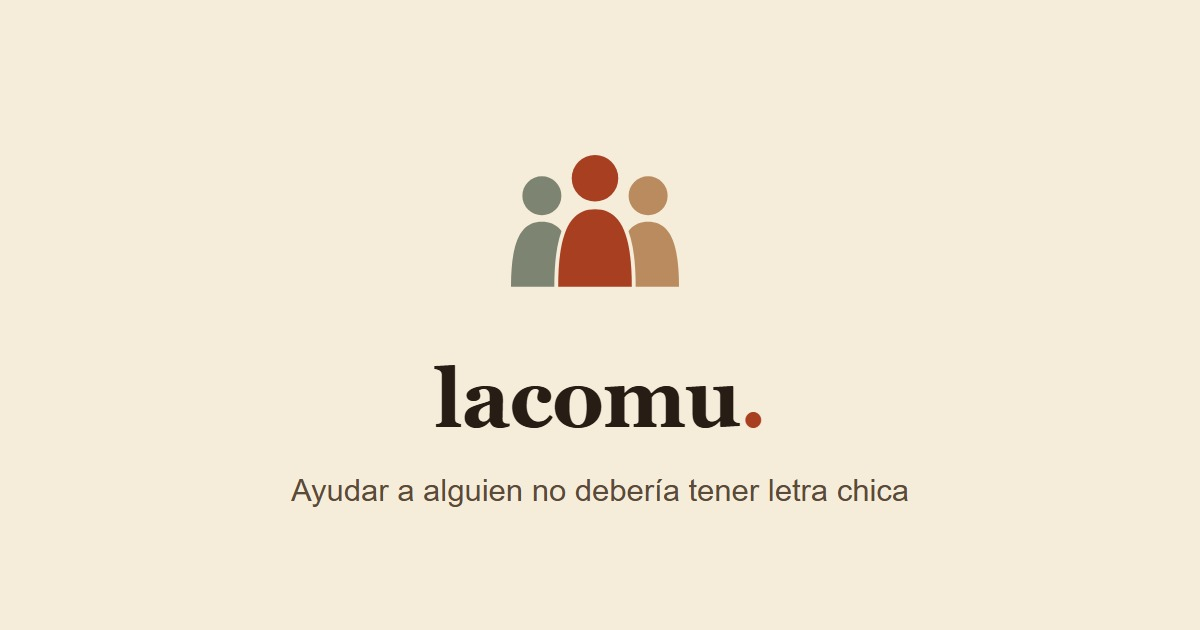
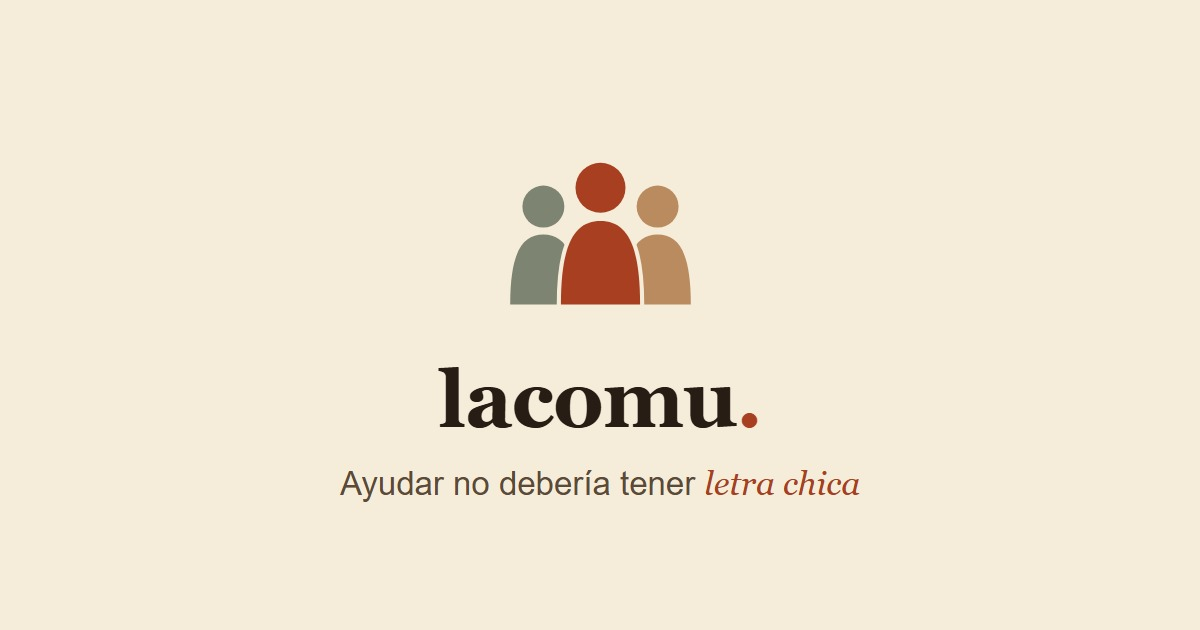
fix: corrige el copy del tagline a 'Ayudar no debería tener letra chica'

Changed region(s): [[0.2467, 0.754, 0.7708, 0.8143], [0.4008, 0.2413, 0.5858, 0.4825], [0.37, 0.573, 0.6475, 0.6937]]

diff --git a/src/app/page.tsx b/src/app/page.tsx
@@ -71,7 +71,7 @@ export default async function Home() {
       <main className="flex flex-col px-6 pt-4 pb-16 md:px-16 md:pt-10">
         <div className="mx-auto flex w-full max-w-2xl flex-col gap-8">
           <h1 className="font-display text-4xl leading-[1.05] text-foreground sm:text-5xl md:text-6xl">
-            Ayudar a alguien no debería tener{" "}
+            Ayudar no debería tener{" "}
             <span className="italic text-primary">letra chica.</span>
           </h1>
 
